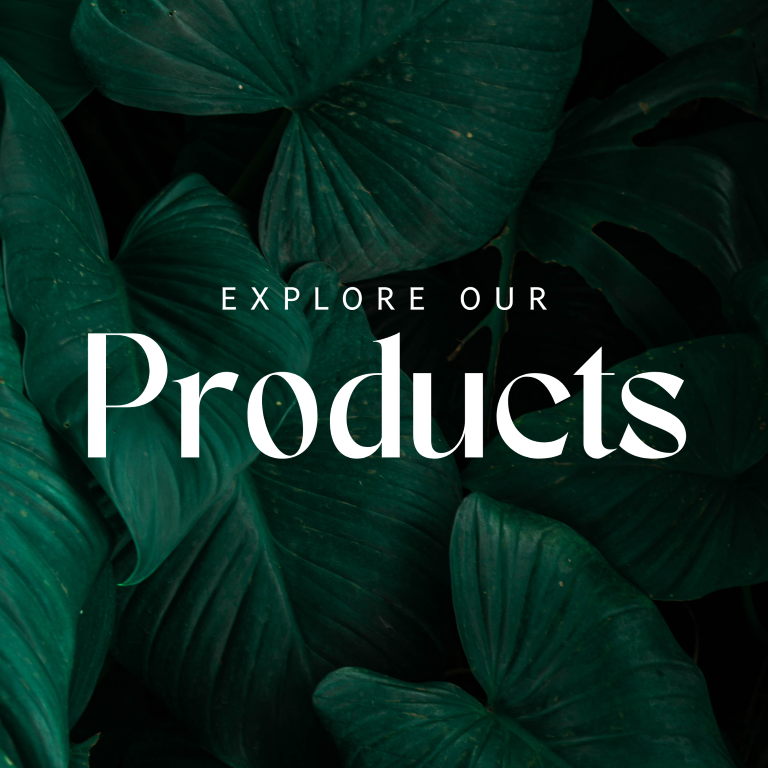
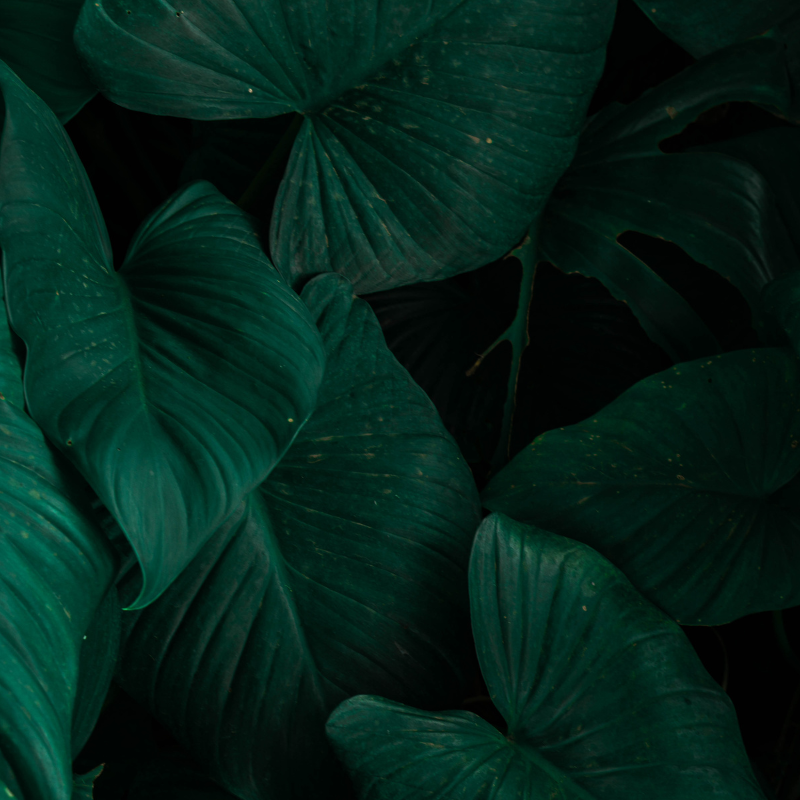
fixed explore products image

Changed region(s): [[0.0938, 0.4062, 0.9062, 0.625], [0.2812, 0.375, 0.5625, 0.4062], [0.5938, 0.375, 0.7188, 0.4062]]

diff --git a/frontend/react/src/pages/Landing/presentation/Landing.jsx b/frontend/react/src/pages/Landing/presentation/Landing.jsx
@@ -20,7 +20,6 @@ function Home() {
 
   return (
     <>
-
       <NavBar />
       <main className="mt-[8vh] w-[100%] overflow-hidden snap snap-y snap-mandatory">
         <TopSection />
@@ -191,15 +190,22 @@ function ExploreProducts() {
     <section>
       <div>
         <div className=" flex flex-col  md:flex-row lg:flex-row justify-center my-10 mx:10 md:mx-28">
-          <motion.img
+          <motion.div
             transition={{ duration: 1 }}
             initial={{ y: 100 }}
             whileInView={{ y: 0 }}
             viewport={{ once: true }}
-            className="w-[100%] mb-8 md:mb-0  md:w-[40%] object-cover"
-            src={explore_image}
-            alt=""
-          />
+            className="relative w-[100%] mb-8 md:mb-0 object-cover text-center"
+          >
+            <img className="w-full h-full" src={explore_image} alt="" />
+            <div className="absolute top-1/2 left-1/2 transform -translate-x-1/2 -translate-y-1/2">
+              <p className="text-white font-light tracking-wider text-xl md:text-lg">
+                Explore our
+              </p>
+              <p className="text-white font-bold text-7xl">Products</p>
+            </div>
+          </motion.div>
+
           <motion.div
             transition={{ duration: 0.5 }}
             initial={{ x: 100, opacity: 0 }}
